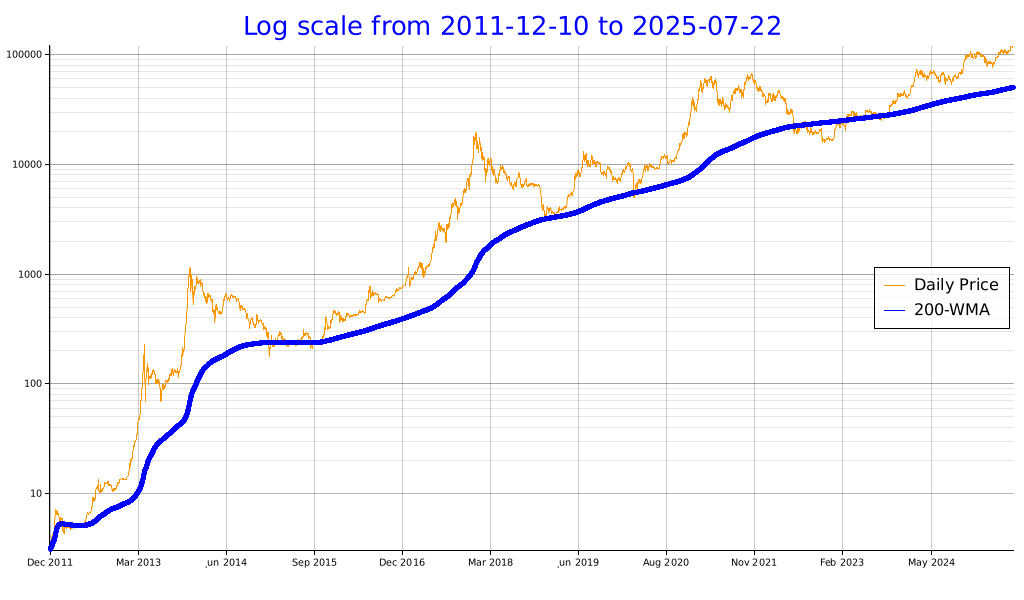
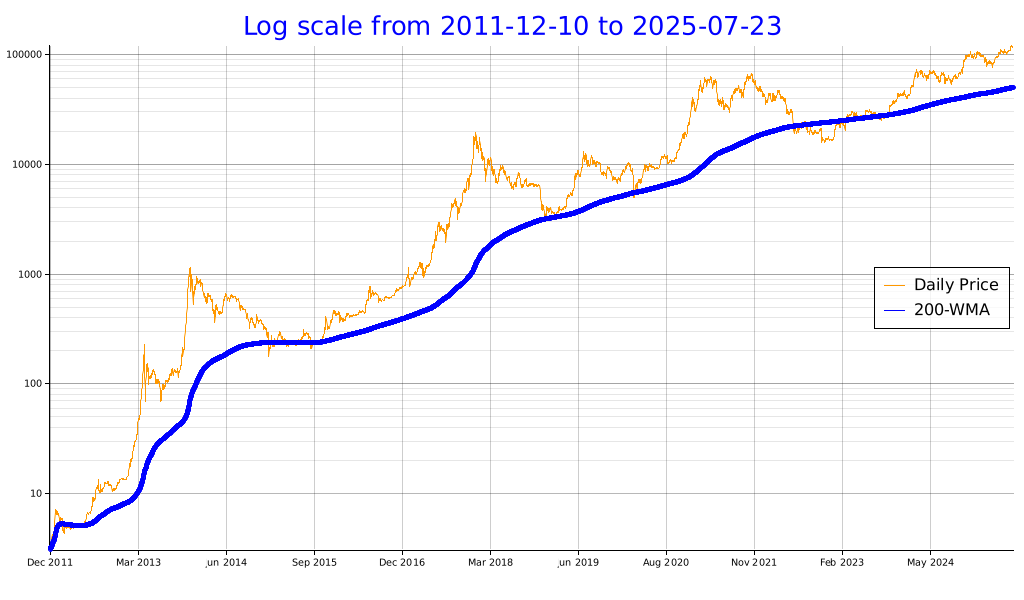
deploy: 5c9706391ed4a10d909b6f24814ac8746e87cbec

diff --git a/index.html b/index.html
@@ -34,7 +34,7 @@
           <td>123,091.60</td>
           <td>74,436.67</td>
           <td></td>
-          <td>9,399,613,521,920.0</td>
+          <td>9,397,022,490,624.0</td>
         </tr>
         <tr>
           <td class='yearly-summary-year'>2024</td>
@@ -227,7 +227,7 @@
     <br><br>
     <a href='https://github.com/bitcoin-tools/btracker'>Link to the report codebase</a>
     <br><br>
-    This report was last updated at 2025-07-22 23:56:36.041834852 UTC.
+    This report was last updated at 2025-07-23 01:57:39.892994481 UTC.
     <br><br>
     <div class='scrollable-table'>
       <table>
@@ -247,16 +247,16 @@
         </thead>
         <tbody>
           <tr>
-            <td>2025-07-22</td>
-            <td>117,419.64</td>
-            <td>120,265.52</td>
-            <td>116,639.50</td>
-            <td>119,900.94</td>
-            <td class='wma-column'>50,283.35</td>
-            <td>56.57 (0.11 %)</td>
-            <td>79,207.26 (194.6 %)</td>
-            <td>3,626.02 (3.0 %)</td>
-            <td>2,461.40 (2.0 %)</td>
+            <td>2025-07-23</td>
+            <td>119,999.45</td>
+            <td>120,026.41</td>
+            <td>119,485.24</td>
+            <td>119,549.98</td>
+            <td class='wma-column'>50,283.10</td>
+            <td>56.32 (0.11 %)</td>
+            <td>78,856.31 (193.7 %)</td>
+            <td>541.17 (0.4 %)</td>
+            <td>2,110.44 (1.7 %)</td>
           </tr>
           <tr>
             <td>2025-07-21</td>
